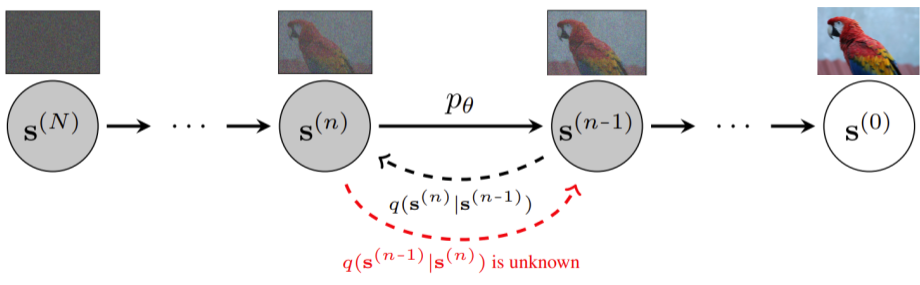
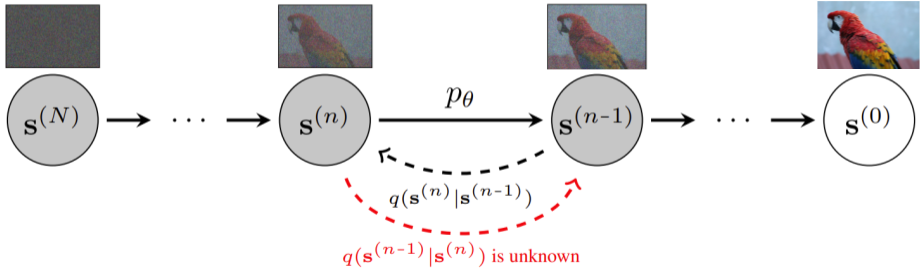
fix img

diff --git a/_posts/2023-12-05-dyffusion.md b/_posts/2023-12-05-dyffusion.md
@@ -104,18 +104,13 @@ This leads to a scalable generalized diffusion model for probabilistic forecasti
 
 [//]: # (Images one below the other)
 <div class='l-body'>
-<img class="img-fluid rounded z-depth-1" src="{{ site.baseurl }}/assets/img/2023-12-dyffusion/noise-diagram-gaussian.jpg">
+<img class="img-fluid z-depth-1" src="{{ site.baseurl }}/assets/img/2023-12-dyffusion/noise-diagram-gaussian.png">
 <figcaption style="text-align: center; margin-top: 10px; margin-bottom: 10px;"> Graphical model for a standard diffusion model.</figcaption>
 </div>
 
 <div class='l-body'>
-<img class="img-fluid" src="{{ site.baseurl }}/assets/img/2023-12-dyffusion/noise-diagram-dyffusion.jpg">
+<img class="img-fluid" src="{{ site.baseurl }}/assets/img/2023-12-dyffusion/noise-diagram-dyffusion.png">
 <figcaption style="text-align: center; margin-top: 10px; margin-bottom: 10px">Graphical model for DYffusion. </figcaption>
-</div>
-
-<div class='l-body'>
-<img class="img-fluid" src="{{ site.baseurl }}/assets/img/2023-12-dyffusion/tmp.png">
-<figcaption style="text-align: center; margin-top: 10px; margin-bottom: 10px">Graphical model for DYffusion.2 </figcaption>
 </div>
 
 DYffusion is the first diffusion model that relies on task-informed forward and reverse processes.
